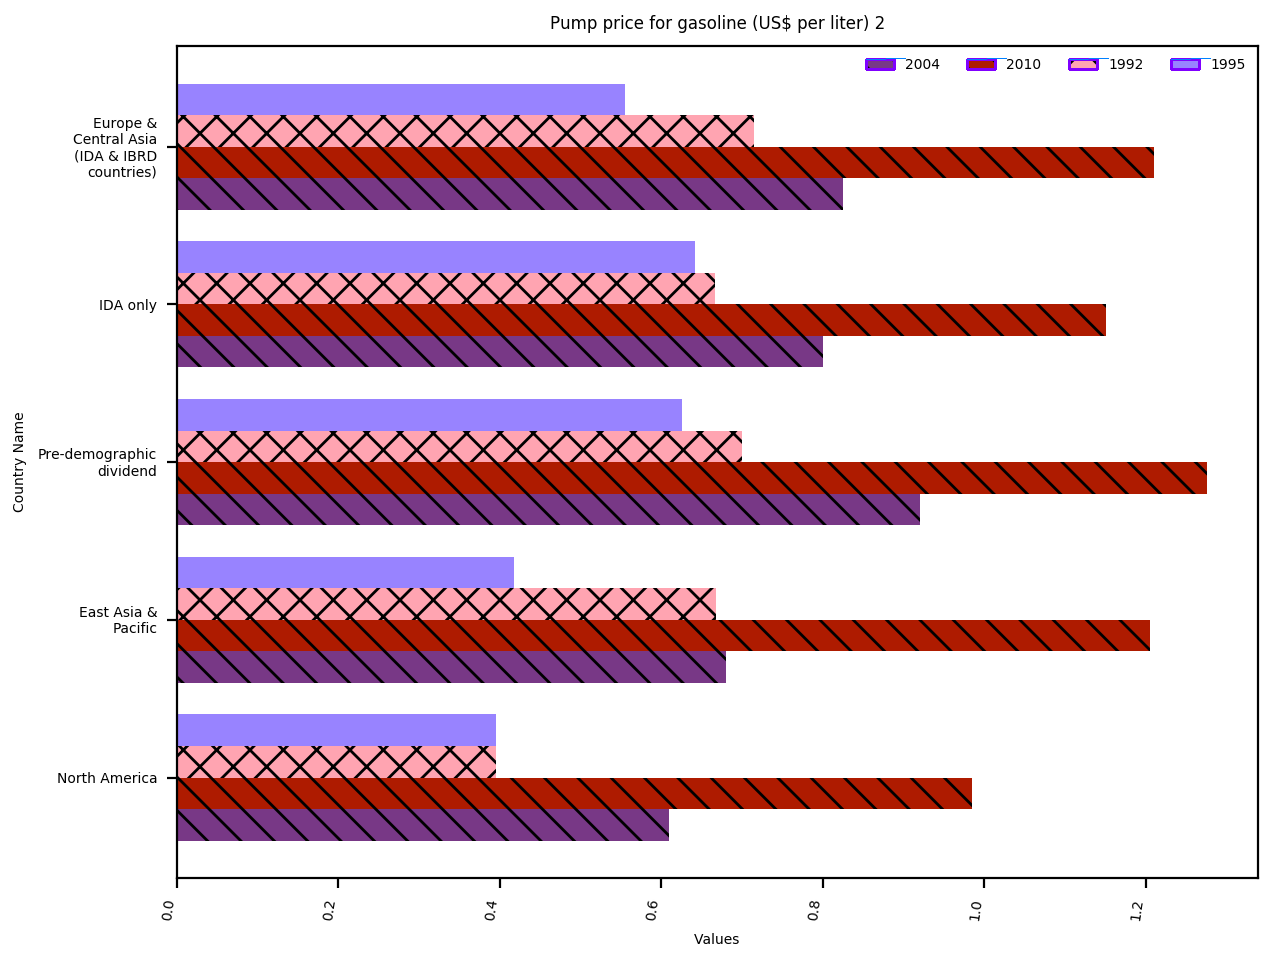
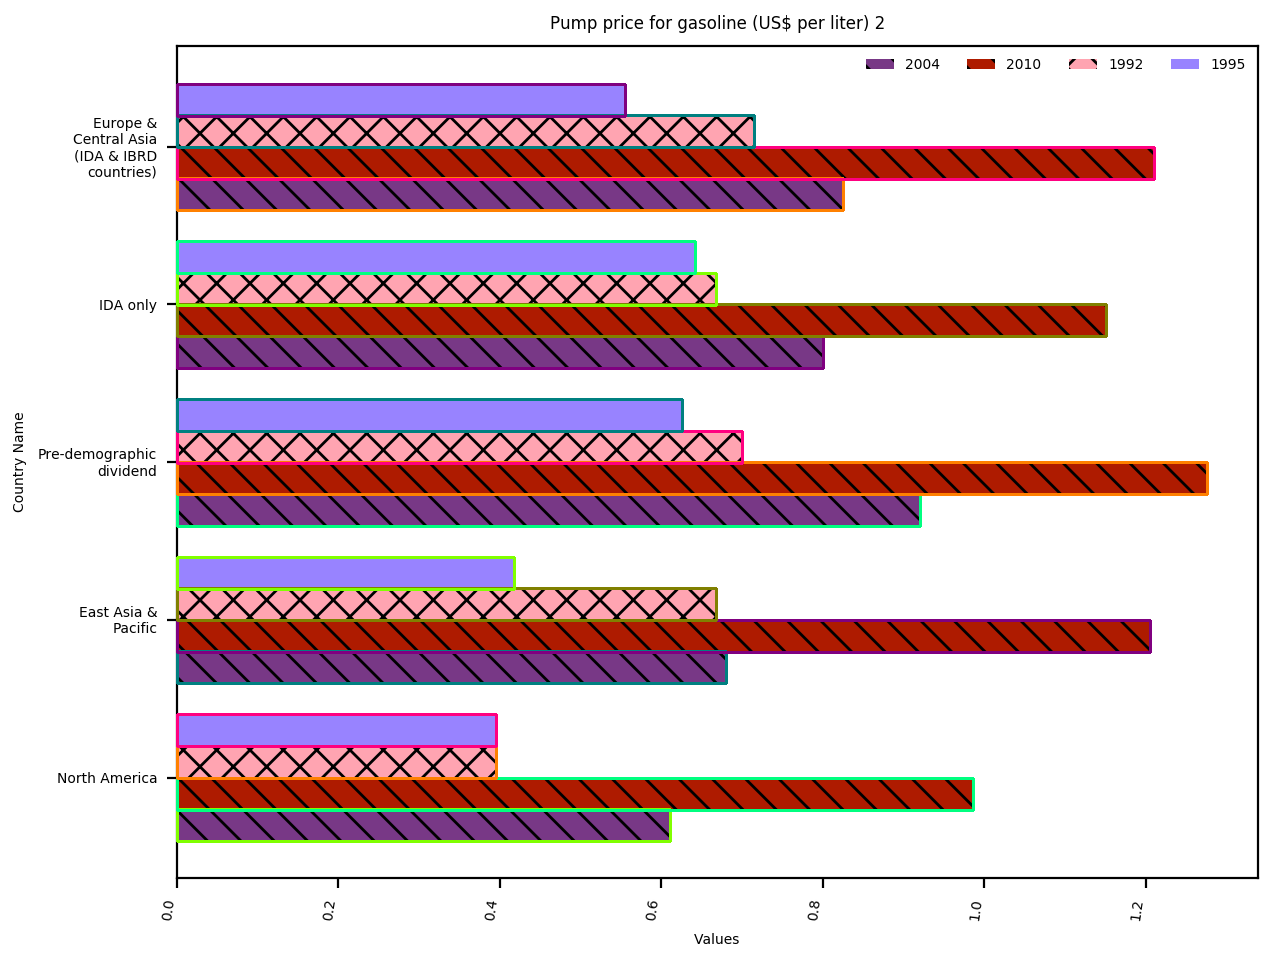
added readme

diff --git a/visualize.py b/visualize.py
@@ -74,53 +74,53 @@ boxplot_mapping = {'median': 0, 'min': 1, 'max': 2, 'first_quartile': 3, 'third_
 #         cv2.line(im, (x,y), p, color, thickness=1)
 
 # task 5
-for obj in in_obj['task5']['output']['legend_pairs']:
-    patch_bb = obj['bb']
-    p1 = (int(patch_bb['x0']), int(patch_bb['y0']))
-    p2 = (int(patch_bb['x0'] + patch_bb['width']), int(patch_bb['y0'] + patch_bb['height']))
-    cv2.rectangle(im, p1, p2, patch_color, thickness=2)
+# for obj in in_obj['task5']['output']['legend_pairs']:
+#     patch_bb = obj['bb']
+#     p1 = (int(patch_bb['x0']), int(patch_bb['y0']))
+#     p2 = (int(patch_bb['x0'] + patch_bb['width']), int(patch_bb['y0'] + patch_bb['height']))
+#     cv2.rectangle(im, p1, p2, patch_color, thickness=2)
 
-    _id = obj['id']
-    label_bb = find_by_id(_id, in_obj['task5']['input']['task2_output']['text_blocks'])['bb']
-    p = (int(label_bb['x0']), int(label_bb['y0']))
+#     _id = obj['id']
+#     label_bb = find_by_id(_id, in_obj['task5']['input']['task2_output']['text_blocks'])['bb']
+#     p = (int(label_bb['x0']), int(label_bb['y0']))
 
-    cv2.line(im, p1, p, patch_connect, thickness=1)
+#     cv2.line(im, p1, p, patch_connect, thickness=1)
 
 # # task 6
-# idx = 0
-# for bb in in_obj['task6']['output']['visual elements']['bars']:
-#     p1 = (int(bb['x0']), int(bb['y0']))
-#     p2 = (int(bb['x0'] + bb['width']), int(bb['y0'] + bb['height']))
-#     color = element_colors[idx % len(element_colors)]
-#     cv2.rectangle(im, p1, p2, color, thickness=2)
-#     idx += 1
+idx = 0
+for bb in in_obj['task6']['output']['visual elements']['bars']:
+    p1 = (int(bb['x0']), int(bb['y0']))
+    p2 = (int(bb['x0'] + bb['width']), int(bb['y0'] + bb['height']))
+    color = element_colors[idx % len(element_colors)]
+    cv2.rectangle(im, p1, p2, color, thickness=2)
+    idx += 1
 
-# for boxplot in in_obj['task6']['output']['visual elements']['boxplots']:
-#     for name, obj in boxplot.items():
-#         color = element_colors[boxplot_mapping[name]]
-#         x = obj['x']
-#         y = obj['y']
-#         bb = obj['_bb']
-#         p1 = (int(bb['x0']), int(bb['y0']))
-#         p2 = (int(bb['x0'] + bb['width']), int(bb['y0'] + bb['height']))
-#         cv2.rectangle(im, p1, p2, color, thickness=1)
-#         cv2.circle(im, (x, y), 3, color, thickness=-1)
+for boxplot in in_obj['task6']['output']['visual elements']['boxplots']:
+    for name, obj in boxplot.items():
+        color = element_colors[boxplot_mapping[name]]
+        x = obj['x']
+        y = obj['y']
+        bb = obj['_bb']
+        p1 = (int(bb['x0']), int(bb['y0']))
+        p2 = (int(bb['x0'] + bb['width']), int(bb['y0'] + bb['height']))
+        cv2.rectangle(im, p1, p2, color, thickness=1)
+        cv2.circle(im, (x, y), 3, color, thickness=-1)
 
-# idx = 0
-# for line in in_obj['task6']['output']['visual elements']['lines']:
-#     for pt in line:
-#         x = pt['x']
-#         y = pt['y']
-#         color = role_colors[idx % len(role_colors)]
-#         cv2.circle(im, (x, y), 2, color, thickness=-1)
-#     idx += 1
+idx = 0
+for line in in_obj['task6']['output']['visual elements']['lines']:
+    for pt in line:
+        x = pt['x']
+        y = pt['y']
+        color = role_colors[idx % len(role_colors)]
+        cv2.circle(im, (x, y), 2, color, thickness=-1)
+    idx += 1
 
-# idx = 0
-# for pt in in_obj['task6']['output']['visual elements']['scatter points']:
-#     x = pt['x']
-#     y = pt['y']
-#     color = element_colors[idx % len(element_colors)]
-#     cv2.circle(im, (x, y), 2, color, thickness=-1)
-#     idx += 1
+idx = 0
+for pt in in_obj['task6']['output']['visual elements']['scatter points']:
+    x = pt['x']
+    y = pt['y']
+    color = element_colors[idx % len(element_colors)]
+    cv2.circle(im, (x, y), 2, color, thickness=-1)
+    idx += 1
 
 cv2.imwrite(out_file, im)

diff --git a/main.py b/main.py
@@ -61,13 +61,61 @@ def parse_json(img, gt_path, class_to_idx):
         gt["y_axis"]["bboxes"].append(bbox)
         gt["y_axis"]["roles"].append(class_to_idx["y_axis"]["y_tick_pt"])
 
+    # Text Roles
+    # print len(text_roles_json), len(text_blocks_json), gt_path
+    text_roles = [None]*len(text_roles_json)
+    for text_role in text_roles_json:
+        bbox_id = int(text_role['id'])
+        try:
+            text_roles[bbox_id] = text_role['role']
+        except:
+            print('********** ' + str(bbox_id) + ', ' + text_role['role']  + ', ' + gt_path)
+
+    # Text Boxes
+    text_bboxes = [None]*len(text_blocks_json)
+    for text_block in text_blocks_json:
+        bbox_id = int(text_block['id'])
+        bbox = text_block['bb']
+        bbox = get_bbox(bbox['x0'], bbox['y0'], bbox['height'], bbox['width'], h, w)
+        text_bboxes[bbox_id] = bbox
+
+    for bbox_id, (role, bbox) in enumerate(zip(text_roles, text_bboxes)):
+        if role == 'chart_title':
+            gt["region"]["roles"].append(class_to_idx["region"][role])
+            gt["region"]["bboxes"].append(bbox)
+        elif role in ('legend_title', 'legend_label'):
+            gt["legend"]["roles"].append(class_to_idx["legend"][role])
+            gt["legend"]["bboxes"].append(bbox)
+        elif role in ('x_tick_label', 'x_axis_title'):
+            gt["x_axis"]["roles"].append(class_to_idx["x_axis"][role])
+            gt["x_axis"]["bboxes"].append(bbox)
+        elif role in ('y_tick_label', 'y_axis_title'):
+            gt["y_axis"]["roles"].append(class_to_idx["y_axis"][role])
+            gt["y_axis"]["bboxes"].append(bbox)
+        else:
+            gt["plot"]["roles"].append(class_to_idx["plot"]["text"])
+            gt["plot"]["bboxes"].append(bbox)
+
+    # Legend Markers
+    for legend_marker in legend_markers_json:
+        bbox = legend_marker['bb']
+        bbox = get_bbox(bbox['x0'], bbox['y0'], bbox['height'], bbox['width'], h, w)
+        gt["legend"]["bboxes"].append(bbox)
+        gt["legend"]["roles"].append(class_to_idx["legend"]['legend_marker'])
+
+    gt["legend"]["bboxes"] = np.array(gt["legend"]["bboxes"])
+    gt["x_axis"]["bboxes"] = np.array(gt["x_axis"]["bboxes"])
+    gt["y_axis"]["bboxes"] = np.array(gt["y_axis"]["bboxes"])
+
     print("Printing GT")
     print(gt)
+    # print("plot_bb_json")
+    # print(plot_bb_json)
 
 
 img = cv2.imread("22.png")
 h, w = img.shape[0:2]
-print(img.shape[0:2])
+# print(img.shape[0:2])
 # print(type(h))
 # print(type(w))
 
@@ -84,12 +132,12 @@ print(img.shape[0:2])
 
 # cv2.imwrite("img.png", img)
 
-for axis, color in [('x', (255, 0, 0)), ('y', (255, 0, 255))]:
-  print(axis)
-  print(color)
-  print("---")
+# for axis, color in [('x', (255, 0, 0)), ('y', (255, 0, 255))]:
+#   print(axis)
+#   print(color)
+#   print("---")
 
-# os.system('python visualize.py 22.json 22.png 22.out.png')
+os.system('python visualize.py 22.json 22.png 22.out.png')
 
 class_to_idx = {'y_axis': {'y_tick_label': 2, 'y_tick_pt': 1, 'y_axis_title': 3, 'background': 0}, 'region': {'plot': 5, 'x_axis': 2, 'background': 0, 'chart_title': 1, 'y_axis': 3, 'legend': 4}, 'legend': {'legend_title': 1, 'legend_label': 2, 'legend_marker': 3, 'background': 0}, 'x_axis': {'x_axis_title': 3, 'background': 0, 'x_tick_pt': 1, 'x_tick_label': 2}, 'plot': {'bars': 2, 'text': 5, 'lines': 3, 'scatter points': 4, 'boxplots': 1, 'background': 0}}
 
